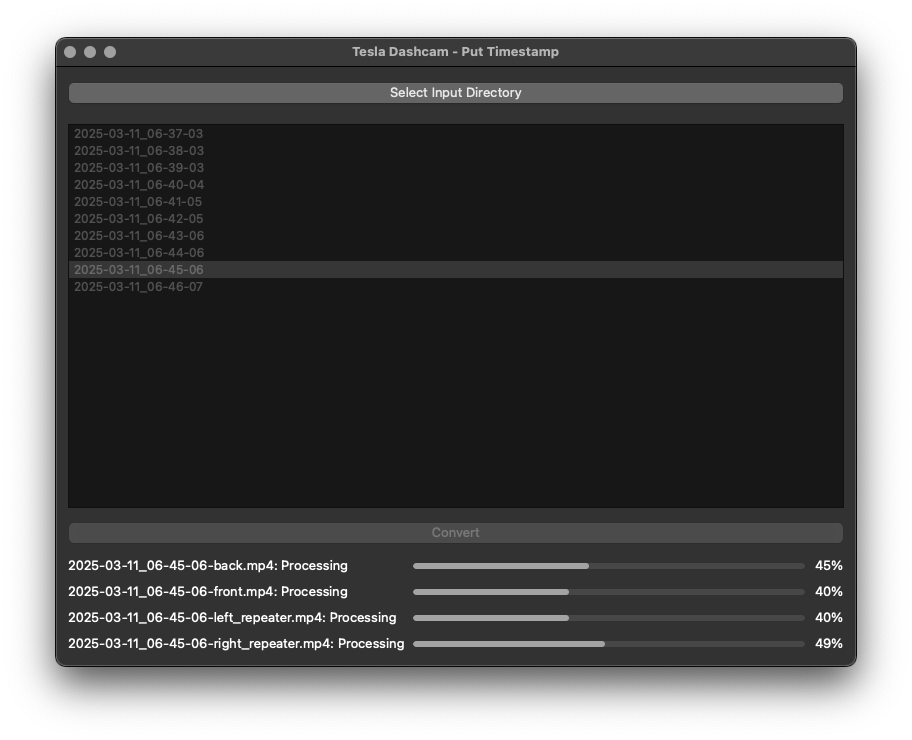
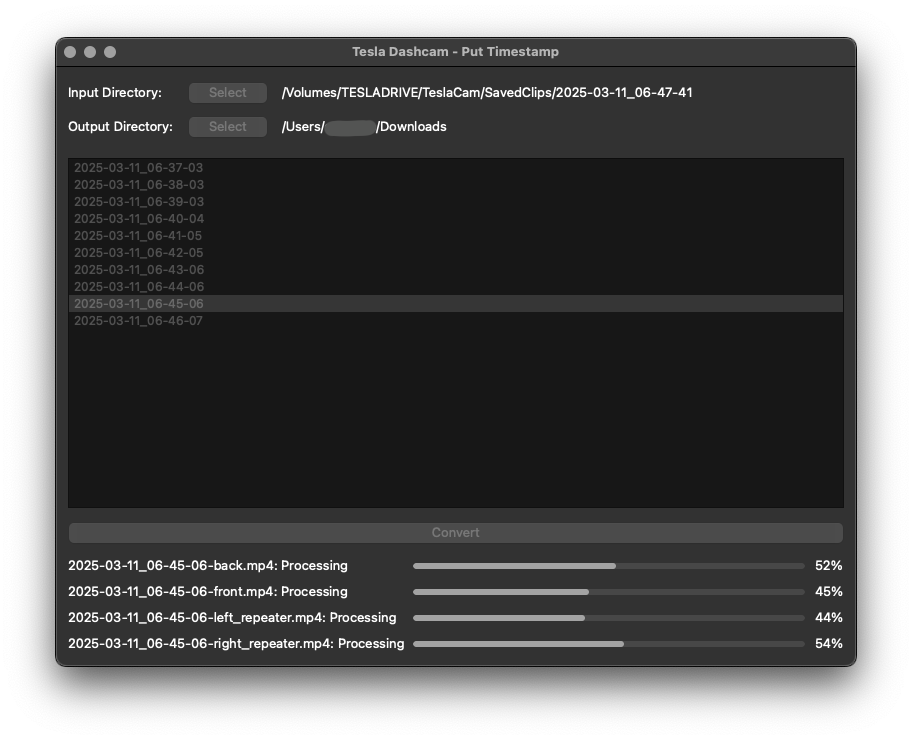
Update files for v1.0.2 release

diff --git a/README.md b/README.md
@@ -1,17 +1,18 @@
 # tesla_dashcam_timestamp
 
-**Version: v0.1.1**
+**Version: v0.1.2**
 
-tesla_dash_cam is a Python application designed to process Tesla dashcam video files by overlaying timestamps using FFmpeg. It provides a user-friendly GUI built with PySide6, allowing users to select input directories, view grouped video files, and convert them in parallel with real-time progress updates.
+tesla_dash_cam is a Python application designed to process Tesla dashcam video files by overlaying timestamps using FFmpeg. It provides a user-friendly GUI built with PySide6, allowing users to select input and output directories, view grouped video files, and convert them in parallel with real-time progress updates.
 
 ## Features
 
-- **Directory Selection**: Select an input directory containing Tesla dashcam videos.
+- **Directory Selection**: Select input and output directories for Tesla dashcam videos.
 - **File Grouping**: Groups video files by timestamp (e.g., `yyyy-mm-dd_hh-mm-ss`), ignoring non-matching files.
 - **Parallel Conversion**: Converts videos from four cameras (`back`, `front`, `left_repeater`, `right_repeater`) in parallel using `multiprocessing`.
 - **Progress Monitoring**: Displays full file names, progress bars, and percentage labels for each camera.
 - **Missing File Handling**: Marks non-existent files as `Missing` without updating their progress.
-- **User-Friendly GUI**: Disables file selection during conversion and resets status on new selections.
+- **User-Friendly GUI**: Disables file and directory selection during conversion and resets status on new selections.
+- **Output Directory Validation**: Prevents selecting the same directory for both input and output.
 
 ## Installation
 
@@ -50,11 +51,12 @@ python src/main.py
 
 2. Run the GUI to:
 
-- Click "Select Input Directory" to choose a directory with Tesla dashcam videos.
+- Click "Select" to choose an "Input Directory" with Tesla dashcam videos.
+- Click "Select" to choose an "Output Directory" to save output videos.
 - Select a timestamp from the file list to view available videos.
 - Click "Convert" to process the videos, with progress displayed in real-time.
 
-3. Check the output files (yyyy-mm-dd_hh-mm-ss-camera.output.mp4) in the input directory.
+3. Check the output files (yyyy-mm-dd_hh-mm-ss-camera.mp4) in the selected output directory.
 
 
 ## Directory Structure
@@ -95,7 +97,8 @@ Below are screenshots showcasing the tesla_dash_cam application in action:
 - Ensure FFmpeg is accessible in your system's PATH.
 - Missing camera files are marked as Missing and excluded from conversion.
 - Conversion uses parallel processing, which may be resource-intensive on low-core systems.
-- Output files are saved in the input directory with `.output.mp4` suffix.
+- Output files are saved in the selected output directory.
+- Input and output directories cannot be the same.
 
 
 ## License
@@ -113,9 +116,18 @@ THE SOFTWARE IS PROVIDED “AS IS”, WITHOUT WARRANTY OF ANY KIND, EXPRESS OR I
 
 ## Changelog
 
+### v0.1.2 (2025-04-14)
+
+- Add output directory selection and validation
+- Disable directory selection during conversion
+- Update UI to show both input and output directory paths
+- Fix output file naming (remove .output suffix)
+- Add warning message when selecting same directory for input and output
+
 ### v0.1.1 (2025-04-14)
 
 - Rename project.
+- Add output directory.
 - Add MIT License.
 - Add Changelog.
 
